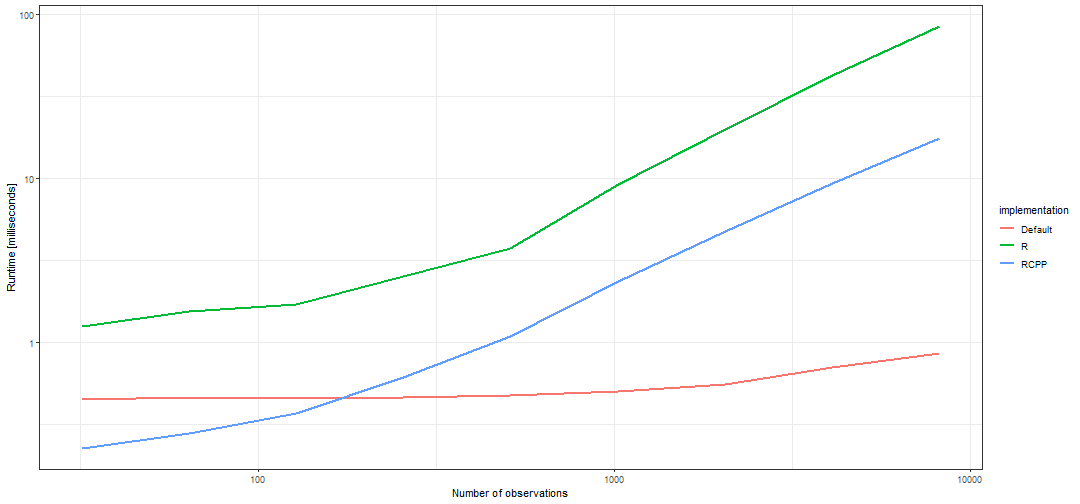
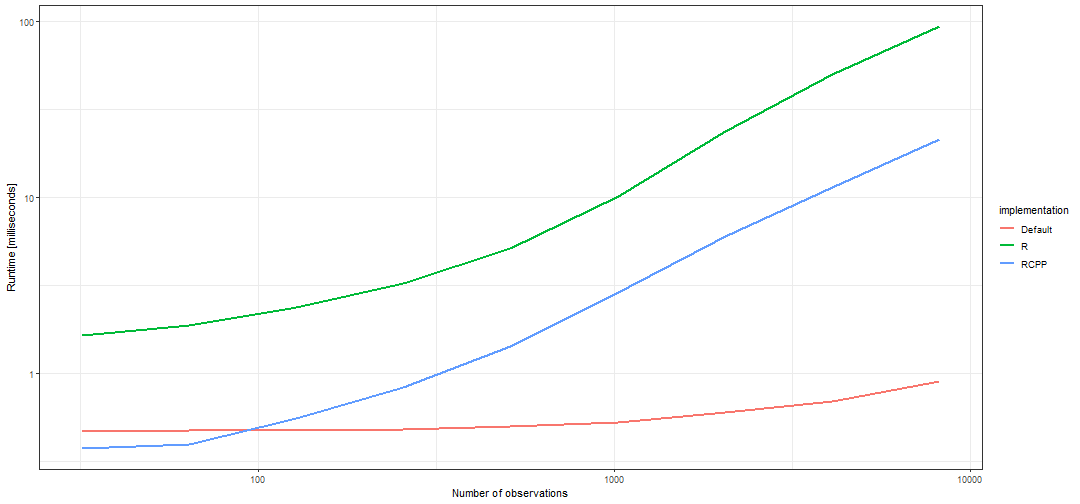
Presentation rettelse

diff --git a/Presentation_assignment1.html b/Presentation_assignment1.html
@@ -196,12 +196,12 @@ microbenchmark(calculate_density_cpp(test, x1, 0.6, 2),
 
 ```
 ## Unit: milliseconds
-##                                     expr      min       lq      mean    median
-##  calculate_density_cpp(test, x1, 0.6, 2) 1.858801 1.925001  2.120603  1.969151
-##    calculate_density_R(test, x1, 0.6, 2) 5.345700 7.613301 12.578117 12.919401
-##         uq       max neval
-##   2.269851  3.630601   100
-##  16.041901 30.193801   100
+##                                     expr    min      lq      mean   median
+##  calculate_density_cpp(test, x1, 0.6, 2) 1.9160 1.97665  2.160975  2.05505
+##    calculate_density_R(test, x1, 0.6, 2) 5.5031 7.66500 13.188654 13.06905
+##        uq     max neval
+##   2.23670  3.5082   100
+##  16.74105 30.0281   100
 ```
 
 
@@ -321,10 +321,10 @@ microbenchmark(plugin_oracle_bandwidth(test, "epanechnikov"))
 
 ```
 ## Unit: microseconds
-##                                           expr   min      lq    mean   median
-##  plugin_oracle_bandwidth(test, "epanechnikov") 124.8 127.801 359.014 134.6505
-##        uq     max neval
-##  194.0015 16351.5   100
+##                                           expr   min     lq    mean median
+##  plugin_oracle_bandwidth(test, "epanechnikov") 133.6 157.45 377.137 204.45
+##      uq     max neval
+##  277.75 14901.4   100
 ```
 
 ```r
@@ -337,10 +337,10 @@ microbenchmark(
 
 ```
 ## Unit: microseconds
-##     expr      min       lq       mean    median        uq       max neval
-##     RCPP 2046.201 2178.151  2438.5470 2266.1510  2553.051  8082.301   100
-##        R 5394.201 7168.201 11173.3511 9834.4015 14388.752 22921.302   100
-##  DEFAULT  462.801  529.601   676.0652  624.3015   709.301  2262.501   100
+##     expr    min      lq      mean   median      uq     max neval
+##     RCPP 2129.1 2238.80  2606.575  2369.00  2642.4 14085.3   100
+##        R 6246.7 8537.85 14019.510 12559.70 17620.7 36359.8   100
+##  DEFAULT  488.6  620.65   915.740   780.45   943.9  4817.2   100
 ```
 
 ---
@@ -377,13 +377,12 @@ rcpp_density_times &lt;-
 # Accuracy on simulated data
 &lt;img src="Presentation_assignment1_files/figure-html/unnamed-chunk-20-1.png" style="display: block; margin: auto;" /&gt;
 
-
-
---- 
-
+---
 # Accuracy on real data
-
 &lt;img src="Presentation_assignment1_files/figure-html/unnamed-chunk-21-1.png" style="display: block; margin: auto;" /&gt;
+
+
+
     </textarea>
 <style data-target="print-only">@media screen {.remark-slide-container{display:block;}.remark-slide-scaler{box-shadow:none;}}</style>
 <script src="https://remarkjs.com/downloads/remark-latest.min.js"></script>
